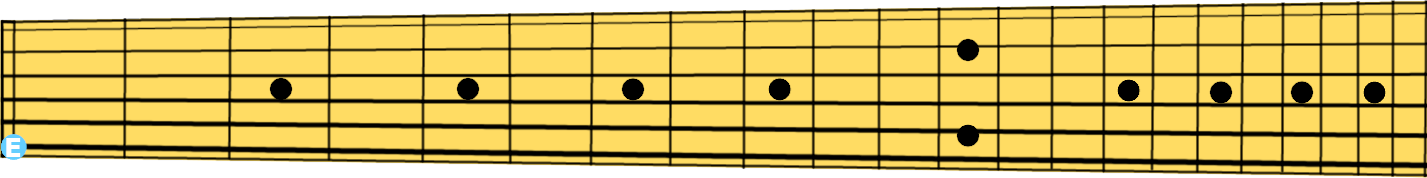
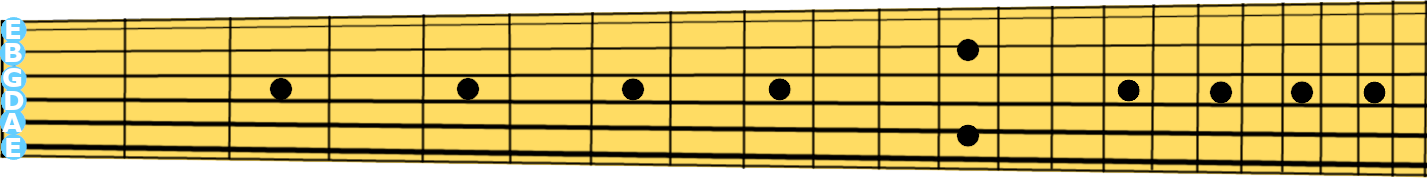
displaying notes for all strings on guitar

Changed region(s): [[0.0, 0.0843, 0.0308, 0.7584]]

diff --git a/scripts/fretboard.js b/scripts/fretboard.js
@@ -1,4 +1,4 @@
-document.getElementById("stringCheckboxToggle").addEventListener("change", function() {
+document.getElementById("stringECheckboxToggle").addEventListener("change", function() {
     var stringImage = document.getElementById("1st-string-wholes");
     if (this.checked) {
         stringImage.style.display = "inline";
@@ -7,8 +7,99 @@ document.getElementById("stringCheckboxToggle").addEventListener("change", funct
     }
 });
 
-document.getElementById("stringCheckboxToggle2").addEventListener("change", function() {
+document.getElementById("stringECheckboxToggle2").addEventListener("change", function() {
     var stringImage = document.getElementById("1st-string-sharps");
+    if (this.checked) {
+        stringImage.style.display = "inline";
+    } else {
+        stringImage.style.display = "none";
+    }
+});
+
+
+document.getElementById("stringACheckboxToggle").addEventListener("change", function() {
+    var stringImage = document.getElementById("2nd-string-wholes");
+    if (this.checked) {
+        stringImage.style.display = "inline";
+    } else {
+        stringImage.style.display = "none";
+    }
+});
+
+document.getElementById("stringACheckboxToggle2").addEventListener("change", function() {
+    var stringImage = document.getElementById("2nd-string-sharps");
+    if (this.checked) {
+        stringImage.style.display = "inline";
+    } else {
+        stringImage.style.display = "none";
+    }
+});
+
+document.getElementById("stringDCheckboxToggle").addEventListener("change", function() {
+    var stringImage = document.getElementById("3rd-string-wholes");
+    if (this.checked) {
+        stringImage.style.display = "inline";
+    } else {
+        stringImage.style.display = "none";
+    }
+});
+
+document.getElementById("stringDCheckboxToggle2").addEventListener("change", function() {
+    var stringImage = document.getElementById("3rd-string-sharps");
+    if (this.checked) {
+        stringImage.style.display = "inline";
+    } else {
+        stringImage.style.display = "none";
+    }
+});
+
+document.getElementById("stringGCheckboxToggle").addEventListener("change", function() {
+    var stringImage = document.getElementById("4th-string-wholes");
+    if (this.checked) {
+        stringImage.style.display = "inline";
+    } else {
+        stringImage.style.display = "none";
+    }
+});
+
+document.getElementById("stringGCheckboxToggle2").addEventListener("change", function() {
+    var stringImage = document.getElementById("4th-string-sharps");
+    if (this.checked) {
+        stringImage.style.display = "inline";
+    } else {
+        stringImage.style.display = "none";
+    }
+});
+
+document.getElementById("stringBCheckboxToggle").addEventListener("change", function() {
+    var stringImage = document.getElementById("5th-string-wholes");
+    if (this.checked) {
+        stringImage.style.display = "inline";
+    } else {
+        stringImage.style.display = "none";
+    }
+});
+
+document.getElementById("stringBCheckboxToggle2").addEventListener("change", function() {
+    var stringImage = document.getElementById("5th-string-sharps");
+    if (this.checked) {
+        stringImage.style.display = "inline";
+    } else {
+        stringImage.style.display = "none";
+    }
+});
+
+document.getElementById("stringHighECheckboxToggle").addEventListener("change", function() {
+    var stringImage = document.getElementById("6th-string-wholes");
+    if (this.checked) {
+        stringImage.style.display = "inline";
+    } else {
+        stringImage.style.display = "none";
+    }
+});
+
+document.getElementById("stringHighECheckboxToggle2").addEventListener("change", function() {
+    var stringImage = document.getElementById("6th-string-sharps");
     if (this.checked) {
         stringImage.style.display = "inline";
     } else {

diff --git a/index.html b/index.html
@@ -106,13 +106,53 @@
 
   <div class="fretboard" id="fretboardContainer">
     <img src="img/fretboard.png" alt="fretboard">
+    <img class="notes-image" src="img/6th-string-wholes.png" alt="6th-string-wholes" id="6th-string-wholes">
+    <img class="notes-image" src="img/6th-string-sharps.png" alt="6th-string-sharps" id="6th-string-sharps">
+    <img class="notes-image" src="img/5th-string-wholes.png" alt="5th-string-wholes" id="5th-string-wholes">
+    <img class="notes-image" src="img/5th-string-sharps.png" alt="5th-string-sharps" id="5th-string-sharps">
+    <img class="notes-image" src="img/4th-string-wholes.png" alt="4th-string-wholes" id="4th-string-wholes">
+    <img class="notes-image" src="img/4th-string-sharps.png" alt="4th-string-sharps" id="4th-string-sharps">
+    <img class="notes-image" src="img/3rd-string-wholes.png" alt="3rd-string-wholes" id="3rd-string-wholes">
+    <img class="notes-image" src="img/3rd-string-sharps.png" alt="3rd-string-sharps" id="3rd-string-sharps">
+    <img class="notes-image" src="img/2nd-string-wholes.png" alt="2nd-string-wholes" id="2nd-string-wholes">
+    <img class="notes-image" src="img/2nd-string-sharps.png" alt="2nd-string-sharps" id="2nd-string-sharps">
     <img class="notes-image" src="img/1st-string-wholes.png" alt="1st-string-wholes" id="1st-string-wholes">
     <img class="notes-image" src="img/1st-string-sharps.png" alt="1st-string-sharps" id="1st-string-sharps">
+    <nav class="option6t">
+      <input type="checkbox" id="stringHighECheckboxToggle" checked>
+      <label for="stringHighECheckboxToggle"></label>
+      <input type="checkbox" id="stringHighECheckboxToggle2" checked>
+      <label for="stringHighECheckboxToggle2"></label>
+    </nav>
+    <nav class="option5t">
+      <input type="checkbox" id="stringBCheckboxToggle" checked>
+      <label for="stringBCheckboxToggle"></label>
+      <input type="checkbox" id="stringBCheckboxToggle2" checked>
+      <label for="stringBCheckboxToggle2"></label>
+    </nav>
+    <nav class="option4t">
+      <input type="checkbox" id="stringGCheckboxToggle" checked>
+      <label for="stringGCheckboxToggle"></label>
+      <input type="checkbox" id="stringGCheckboxToggle2" checked>
+      <label for="stringGCheckboxToggle2"></label>
+    </nav>
+    <nav class="option3t">
+      <input type="checkbox" id="stringDCheckboxToggle" checked>
+      <label for="stringDCheckboxToggle"></label>
+      <input type="checkbox" id="stringDCheckboxToggle2" checked>
+      <label for="stringDCheckboxToggle2"></label>
+    </nav>
+    <nav class="option2t">
+      <input type="checkbox" id="stringACheckboxToggle" checked>
+      <label for="stringACheckboxToggle"></label>
+      <input type="checkbox" id="stringACheckboxToggle2" checked>
+      <label for="stringACheckboxToggle2"></label>
+    </nav>
     <nav class="option1t">
-      <input type="checkbox" id="stringCheckboxToggle" checked>
-      <label for="stringCheckboxToggle"></label>
-      <input type="checkbox" id="stringCheckboxToggle2" checked>
-      <label for="stringCheckboxToggle2"></label>
+      <input type="checkbox" id="stringECheckboxToggle" checked>
+      <label for="stringECheckboxToggle"></label>
+      <input type="checkbox" id="stringECheckboxToggle2" checked>
+      <label for="stringECheckboxToggle2"></label>
     </nav>
   </div>
 

diff --git a/styles/fretboard.css b/styles/fretboard.css
@@ -22,3 +22,28 @@
     position: absolute;
     top: 140px;
 }
+.option2t {
+    display: flex;
+    position: absolute;
+    top: 115px;
+}
+.option3t {
+    display: flex;
+    position: absolute;
+    top: 90px;
+}
+.option4t {
+    display: flex;
+    position: absolute;
+    top: 65px;
+}
+.option5t {
+    display: flex;
+    position: absolute;
+    top: 40px;
+}
+.option6t {
+    display: flex;
+    position: absolute;
+    top: 15px;
+}
